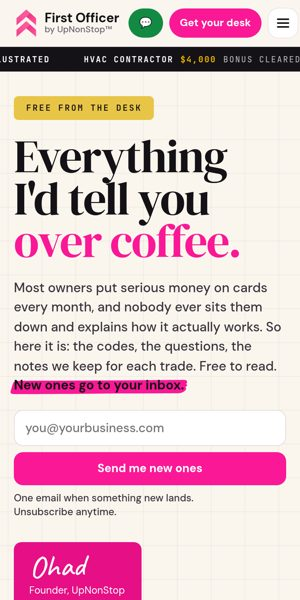
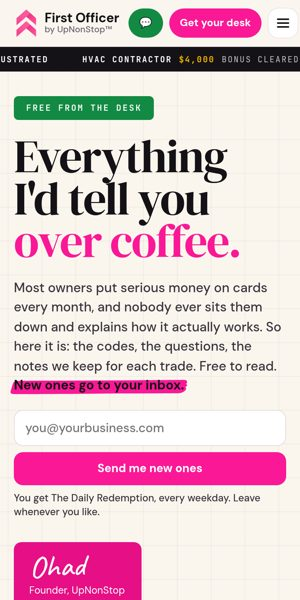
3h: green eyebrow, hero + band sign-ups wired to The Daily Redemption (Ghost members API, mockup guard), drop duplicate endnote capture

diff --git a/rebuild-v4/ffd-c-opt-3h.html b/rebuild-v4/ffd-c-opt-3h.html
@@ -824,7 +824,7 @@ html.dir-c.o3h .desk .endnote a{text-decoration-color:#fff}
 }
 
 /* eyebrow: its own colour, a plain tag, no stub and no mark */
-html.dir-c.o3h .desk .eyebrow{background:#E8C547!important;color:#141216!important;-webkit-mask:none;mask:none;border:0;border-radius:6px;padding:10px 16px;box-shadow:none}
+html.dir-c.o3h .desk .eyebrow{background:#138A43!important;color:#fff!important;-webkit-mask:none;mask:none;border:0;border-radius:6px;padding:10px 16px;box-shadow:none}
 html.dir-c.o3h .desk .eyebrow::before{display:none}
 /* signature: Ohad and the role on a plain pink tag, no stub */
 html.dir-c.o3h .desk .sig{background:#E60F86!important;-webkit-mask:none!important;mask:none!important;padding:12px 22px 12px 20px;border-radius:10px;box-shadow:none}
@@ -841,17 +841,26 @@ html.dir-c.o3h .desk .cap input:focus{outline:2px solid #FA1896;outline-offset:1
 html.dir-c.o3h .desk .cap button{flex:0 0 auto;font:700 15px/1 'DM Sans',system-ui,sans-serif;color:#fff;background:#FA1896;border:0;border-radius:12px;padding:0 18px;cursor:pointer;white-space:nowrap}
 html.dir-c.o3h .desk .cap button:hover{background:#B30A68}
 html.dir-c.o3h .desk .cap-m{margin:8px 0 0;font-size:13px;line-height:1.4;color:#3A343D}
-html.dir-c.o3h .desk .cap-ok{display:none;margin:8px 0 0;font-size:13px;font-weight:600;color:#B30A68}
-html.dir-c.o3h .desk .cap.sent .cap-ok{display:block}html.dir-c.o3h .desk .cap.sent .cap-m{display:none}
-html.dir-c.o3h .desk .endnote .en-main{min-width:0}
-html.dir-c.o3h .desk .endnote .en-cap{padding:0 48px 40px}
-html.dir-c.o3h .desk .endnote .en-cap p{padding:0;font-size:17px;line-height:1.4}
-html.dir-c.o3h .desk .endnote .cap-ask{font-weight:600}
-html.dir-c.o3h .desk .endnote .cap{margin:12px 0 0}html.dir-c.o3h .desk .endnote .en-cap .cap-m{margin-top:8px}
-html.dir-c.o3h .desk .endnote .cap input{border-color:#fff}
-html.dir-c.o3h .desk .endnote .cap button{background:#141216}html.dir-c.o3h .desk .endnote .cap button:hover{background:#3A343D}
-html.dir-c.o3h .desk .endnote .en-cap .cap-m,html.dir-c.o3h .desk .endnote .en-cap .cap-ok{color:#fff;font-size:13px}
-@media(max-width:860px){html.dir-c.o3h .desk .endnote .en-cap{padding:0 22px 28px}}
+html.dir-c.o3h .desk .cap-msg{margin:8px 0 0;font-size:13px;font-weight:600;color:#B30A68}html.dir-c.o3h .desk .cap-msg:empty{display:none}
+html.dir-c.o3h .desk .cap.sent .cap-m{display:none}
+html.dir-c.o3h #band{background:var(--bg,#FAF6EE);padding-top:24px;padding-bottom:64px}
+html.dir-c.o3h #band .dr{display:grid;grid-template-columns:220px minmax(0,1fr);max-width:1120px;margin:0 auto;border-radius:14px;overflow:hidden;background:rgba(250,24,150,.07);box-shadow:inset 0 0 0 1.5px rgba(250,24,150,.22)}
+html.dir-c.o3h #band .dr-stub{background:#E60F86;color:#fff;padding:28px 22px;display:flex;flex-direction:column;justify-content:center;gap:10px;border-right:2px dashed rgba(255,255,255,.6)}
+html.dir-c.o3h #band .dr-k{font:700 22px/1.1 'DM Sans',system-ui,sans-serif;letter-spacing:-.01em}
+html.dir-c.o3h #band .dr-f{font:600 11px/1 'JetBrains Mono',monospace;letter-spacing:.18em;text-transform:uppercase;opacity:.9}
+html.dir-c.o3h #band .dr-main{padding:30px 36px 32px}
+html.dir-c.o3h #band .dr-h{font:800 26px/1.15 'DM Sans',system-ui,sans-serif;letter-spacing:-.02em;color:#141216;margin:0}
+html.dir-c.o3h #band .dr-s{margin:8px 0 0;font-size:15px;line-height:1.55;color:#3A343D;max-width:620px}
+html.dir-c.o3h #band .cap{margin:16px 0 0;max-width:520px}
+html.dir-c.o3h #band .cap-l{position:absolute;width:1px;height:1px;overflow:hidden;clip:rect(0 0 0 0);white-space:nowrap}
+html.dir-c.o3h #band .cap-row{display:flex;gap:8px}
+html.dir-c.o3h #band .cap input{flex:1 1 auto;min-width:0;font:500 16px/1.2 'DM Sans',system-ui,sans-serif;color:#141216;background:#fff;border:1.5px solid rgba(250,24,150,.35);border-radius:12px;padding:13px 14px}
+html.dir-c.o3h #band .cap input:focus{outline:2px solid #FA1896;outline-offset:1px}
+html.dir-c.o3h #band .cap button{flex:0 0 auto;font:700 15px/1 'DM Sans',system-ui,sans-serif;color:#fff;background:#FA1896;border:0;border-radius:12px;padding:0 20px;cursor:pointer;white-space:nowrap}
+html.dir-c.o3h #band .cap button:hover{background:#B30A68}
+html.dir-c.o3h #band .cap-msg{margin:8px 0 0;font-size:13px;font-weight:600;color:#B30A68}html.dir-c.o3h #band .cap-msg:empty{display:none}
+@media(max-width:760px){html.dir-c.o3h #band .dr{grid-template-columns:1fr}html.dir-c.o3h #band .dr-stub{border-right:0;border-bottom:2px dashed rgba(255,255,255,.6);padding:18px 20px;flex-direction:row;align-items:baseline;justify-content:space-between;flex-wrap:wrap}html.dir-c.o3h #band .dr-main{padding:22px 20px 24px}html.dir-c.o3h #band .dr-h{font-size:22px}}
+@media(max-width:420px){html.dir-c.o3h #band .cap-row{flex-direction:column}html.dir-c.o3h #band .cap button{padding:14px 18px}}
 @media(max-width:420px){html.dir-c.o3h .desk .cap-row{flex-direction:column}html.dir-c.o3h .desk .cap button{padding:14px 18px}}
 </style></head><body>
 <!-- MOCKUP · First Officer rebuild v4 (prior mockup design language) · static HTML, not production -->
@@ -867,7 +876,7 @@ html.dir-c.o3h .desk .endnote .en-cap .cap-m,html.dir-c.o3h .desk .endnote .en-c
 <div class="dh-l">
 <div class="eyebrow">Free From the Desk</div>
 <h1>Everything I'd tell you <em>over coffee.</em></h1>
-<p class="lede">Most owners put serious money on cards every month, and nobody ever sits them down and explains how it actually works. So here it is: the codes, the questions, the notes we keep for each trade. Free to read. <span class="hl">New ones go to your inbox.</span></p><form class="cap cap-hero" action="#capture-placeholder" method="post" data-placeholder="mockup: not connected to any list" onsubmit="this.classList.add('sent');return false"><label class="cap-l" for="caph-e">Email for new notes</label><div class="cap-row"><input id="caph-e" type="email" name="email" required autocomplete="email" placeholder="you@yourbusiness.com"><button type="submit">Send me new ones</button></div><p class="cap-m">One email when something new lands. Unsubscribe anytime.</p><p class="cap-ok" role="status">Thanks. Mockup only, nothing was sent.</p></form>
+<p class="lede">Most owners put serious money on cards every month, and nobody ever sits them down and explains how it actually works. So here it is: the codes, the questions, the notes we keep for each trade. Free to read. <span class="hl">New ones go to your inbox.</span></p><form class="cap cap-hero" data-fo-signup data-endpoint="https://www.upnonstop.com/members/api/send-magic-link/" data-labels="First Officer site" novalidate><label class="cap-l" for="caph-e">Your email address</label><div class="cap-row"><input id="caph-e" type="email" name="email" required autocomplete="email" placeholder="you@yourbusiness.com"><button type="submit">Send me new ones</button></div><p class="cap-m">You get The Daily Redemption, every weekday. Leave whenever you like.</p><p class="cap-msg" role="status" aria-live="polite"></p></form>
 <div class="sig"><div><span class="sign">Ohad</span><span class="role">Founder, UpNonStop</span></div></div>
 </div>
 <div class="vault"><a class="feat" href="calculator.html">
@@ -1781,14 +1790,12 @@ html.dir-c.o3h .desk .endnote .en-cap .cap-m,html.dir-c.o3h .desk .endnote .en-c
 </article>
 <button type="button" class="more-tile" data-ty="decoder" data-noun="decoder cards" hidden></button><p class="empty" hidden>Nothing here yet. Try another word, or <a href="https://wa.me/16199404040?text=First%20Officer%20Found%20Money%20Call" rel="noopener">text the desk your question</a>.</p></section>
 <section class="endnote bleed">
-<div class="en-main"><p>That's the desk. Take whatever helps. If you'd rather we just do it for you, that's what <a href="book.html">The Found Money Call</a> is: 20 minutes, and if the math says no, I'll tell you no.</p><div class="en-cap"><p class="cap-ask">Want the new ones when they are added? Leave your email.</p><form class="cap cap-foot" action="#capture-placeholder" method="post" data-placeholder="mockup: not connected to any list" onsubmit="this.classList.add('sent');return false"><label class="cap-l" for="capf-e">Email for new notes</label><div class="cap-row"><input id="capf-e" type="email" name="email" required autocomplete="email" placeholder="you@yourbusiness.com"><button type="submit">Send me new ones</button></div><p class="cap-m">One email when something new lands. Unsubscribe anytime.</p><p class="cap-ok" role="status">Thanks. Mockup only, nothing was sent.</p></form></div></div>
+<p>That's the desk. Take whatever helps. If you'd rather we just do it for you, that's what <a href="book.html">The Found Money Call</a> is: 20 minutes, and if the math says no, I'll tell you no.</p>
 <span class="sign">Ohad</span>
 </section>
 <section class="disc"><p><b>Plainly:</b> First Officer is an educational tool, not a licensed financial advisor. Nothing here is financial, tax, legal, credit or HR advice. We're not a lender, a credit repair or counseling service, a tax preparer or a law firm, and nothing on this page is an offer of credit or a recommendation to apply for any card or loan. Every number is sourced or labeled Example, and your results will be different. Rules change, so check with your issuer, program, agency or professional before you act. Examples are illustrations, not predictions. Merchant codes are set by each merchant's processor. Card, bureau, program and company names are their owners' trademarks, and naming them isn't an endorsement. This page doesn't see your credit file, accounts or statements. <span class="hl">No affiliate links</span>, and <span class="hl">no money from any bank or program</span>. Nobody pays us to send you anywhere. <a href="terms-of-service.html"><em>Terms &amp; Conditions</em></a> &middot; <a href="privacy-policy.html">Privacy Policy</a></p></section></div></main>
 <section class="sec" id="band"><div class="phx" data-iv="8000" data-ph="img/ph/d-bali.webp,img/ph/bg-05.webp,img/ph/d-maldives.webp" aria-hidden="true"></div><div class="wrap">
-<div class="card news" id="focap" style="margin-top:12px" data-rv><span class="lab gold">The Daily Redemption</span><h3 class="h3" style="margin-top:8px">One real redemption, every weekday.</h3>
-<p style="margin-top:6px">The newsletter behind the desk: what the desk found on request, what it cost in points, and what it would have cost in cash. Free, and you can leave whenever you like.</p>
-<form onsubmit="return false"><input type="email" placeholder="you@yourbusiness.com" aria-label="Your email address"><button class="btn" type="submit">Get the newsletter</button></form></div></div></section>
+<div class="dr" id="focap" data-rv><div class="dr-stub"><span class="dr-k">The Daily Redemption</span><span class="dr-f">Every weekday</span></div><div class="dr-main"><h3 class="dr-h">New freebies and notes from the desk, in your inbox.</h3><p class="dr-s">The Daily Redemption is the newsletter behind the desk: one real redemption every weekday, and the new freebies as they land. Free, and you can leave whenever you like.</p><form class="cap cap-dr" data-fo-signup data-endpoint="https://www.upnonstop.com/members/api/send-magic-link/" data-labels="First Officer site" novalidate><label class="cap-l" for="capd-e">Your email address</label><div class="cap-row"><input id="capd-e" type="email" name="email" required autocomplete="email" placeholder="you@yourbusiness.com"><button type="submit">Get the newsletter</button></div><p class="cap-msg" role="status" aria-live="polite"></p></form></div></div></div></section>
 <footer class="foot"><div class="wrap">
 <p class="dn">Client stories are shared with permission. Names, figures and examples on this page may be illustrative or altered to protect privacy.</p>
 <div class="fdir">
@@ -2026,4 +2033,17 @@ function fill(){[].forEach.call(document.querySelectorAll('.desk .grid .shelf'),
  if(lead&&n<3)r3='';sh.setAttribute('data-r3',r3);sh.setAttribute('data-r2',r2);});}
 var g=document.getElementById('desk-grid');if(!g)return;fill();
 new MutationObserver(function(){clearTimeout(fill.t);fill.t=setTimeout(fill,30);}).observe(g,{subtree:true,attributes:true,attributeFilter:['hidden'],childList:true});
-})();</script><script src="assets/site.js"></script></body></html>
+})();</script><script src="assets/site.js"></script><script id="fo-signup">(function(){var LIVE=false;
+document.querySelectorAll('form[data-fo-signup]').forEach(function(f){
+ var i=f.querySelector('input[type=email]'),b=f.querySelector('button'),m=f.querySelector('.cap-msg');
+ f.addEventListener('submit',function(e){e.preventDefault();var v=(i.value||'').trim();
+  if(!v||v.indexOf('@')<1){m.textContent='Please enter a valid email address.';i.focus();return;}
+  if(!LIVE){f.classList.add('sent');m.textContent='Mockup only, nothing was sent. On the live site this adds you to The Daily Redemption.';return;}
+  b.disabled=true;m.textContent='Sending...';
+  fetch(f.dataset.endpoint,{method:'POST',headers:{'Content-Type':'application/json'},
+   body:JSON.stringify({email:v,emailType:'signup',labels:f.dataset.labels.split(','),name:''})})
+  .then(function(r){if(r.ok){f.classList.add('sent');f.querySelector('.cap-row').style.display='none';m.textContent='Check your inbox for the confirmation link.';
+    if(typeof gtag==='function')gtag('event','newsletter_signup',{page_path:location.pathname});}
+   else{b.disabled=false;m.textContent='That did not go through. Try again in a moment.';}})
+  .catch(function(){b.disabled=false;m.textContent='That did not go through. Try again in a moment.';});});});})();</script>
+</body></html>

diff --git a/rebuild-v4/ffd-c-options.html b/rebuild-v4/ffd-c-options.html
@@ -25,7 +25,7 @@ p.l{font-size:17px;color:#3a343d;max-width:720px}
 <h1>Same desk, no black, <em>five ways.</em></h1>
 <p class="l">Same 490 items, search, filters, reading view, rail and shelves, and the same gold Golden Nugget card. Only the surfaces change.</p>
 <div class="g"><article class="o"><a class="sh" href="ffd-c-opt-3h.html"><img class="dt" src="img/ffd-opts/opt-3h-1440.jpg" alt="Brand palette on desktop" loading="lazy"><img class="ph" src="img/ffd-opts/opt-3h-390.jpg" alt="Brand palette on a phone" loading="lazy"></a>
-<div class="tx"><span class="k">Brand palette</span><b>Cream desk, First Officer pink tickets</b><p>Matured to the brand: the cream canvas, ink type and pink second line of the approved pages, every solid block in First Officer pink with a deeper pink tear-off stub, a flat brand-gold Golden Nugget Pack, a gold eyebrow tag, an email capture, and the mark only in the logo. No purple.</p><a class="go" href="ffd-c-opt-3h.html">Open brand palette <span aria-hidden="true">&rarr;</span></a></div></article><article class="o"><a class="sh" href="ffd-c-opt-3g.html"><img class="dt" src="img/ffd-opts/opt-3g-1440.jpg" alt="Palette A, refined on desktop" loading="lazy"><img class="ph" src="img/ffd-opts/opt-3g-390.jpg" alt="Palette A, refined on a phone" loading="lazy"></a>
+<div class="tx"><span class="k">Brand palette</span><b>Cream desk, First Officer pink tickets</b><p>Matured to the brand: the cream canvas, ink type and pink second line of the approved pages, every solid block in First Officer pink with a deeper pink tear-off stub, a flat brand-gold Golden Nugget Pack, a green eyebrow tag, Daily Redemption sign-ups, and the mark only in the logo. No purple.</p><a class="go" href="ffd-c-opt-3h.html">Open brand palette <span aria-hidden="true">&rarr;</span></a></div></article><article class="o"><a class="sh" href="ffd-c-opt-3g.html"><img class="dt" src="img/ffd-opts/opt-3g-1440.jpg" alt="Palette A, refined on desktop" loading="lazy"><img class="ph" src="img/ffd-opts/opt-3g-390.jpg" alt="Palette A, refined on a phone" loading="lazy"></a>
 <div class="tx"><span class="k">Palette A, refined</span><b>One deep partner, refined</b><p>Palette A taken further: a lifted aubergine that never reads as black, the full First Officer mark wherever a chevron appears, a cheat sheet that leads with why an owner cares, and shelves that close up with no holes.</p><a class="go" href="ffd-c-opt-3g.html">Open palette A, refined <span aria-hidden="true">&rarr;</span></a></div></article><article class="o"><a class="sh" href="ffd-c-opt-3d.html"><img class="dt" src="img/ffd-opts/opt-3d-1440.jpg" alt="Palette A on desktop" loading="lazy"><img class="ph" src="img/ffd-opts/opt-3d-390.jpg" alt="Palette A on a phone" loading="lazy"></a>
 <div class="tx"><span class="k">Palette A</span><b>One deep partner</b><p>Pink hero plus one deep aubergine for every solid block, tonal stubs, gold as the single accent; pillar colours shrink to the kind labels and the FO-number underline.</p><a class="go" href="ffd-c-opt-3d.html">Open palette A <span aria-hidden="true">&rarr;</span></a></div></article><article class="o"><a class="sh" href="ffd-c-opt-3e.html"><img class="dt" src="img/ffd-opts/opt-3e-1440.jpg" alt="Palette B on desktop" loading="lazy"><img class="ph" src="img/ffd-opts/opt-3e-390.jpg" alt="Palette B on a phone" loading="lazy"></a>
 <div class="tx"><span class="k">Palette B</span><b>Section-coded</b><p>Each section owns one pillar colour in tonal shades only: the hero and stats in deep violet, each desk lane in its own pillar from rail to lead, never two pillars side by side.</p><a class="go" href="ffd-c-opt-3e.html">Open palette B <span aria-hidden="true">&rarr;</span></a></div></article><article class="o"><a class="sh" href="ffd-c-opt-3f.html"><img class="dt" src="img/ffd-opts/opt-3f-1440.jpg" alt="Palette C on desktop" loading="lazy"><img class="ph" src="img/ffd-opts/opt-3f-390.jpg" alt="Palette C on a phone" loading="lazy"></a>

diff --git a/rebuild-v4/_build/ffd_c_opts.py b/rebuild-v4/_build/ffd_c_opts.py
@@ -800,7 +800,7 @@ open(_p, 'w', encoding='utf-8').write(_s.replace(CHEV, MARK))
 BP, BPS, BPK = '#E60F86', '#B30A68', '#FA1896'          # --pink2 block, --pinkdeep stub, --pink accent
 BCR, BCR2, BTR, BPL = '#FAF6EE', '#FBF4E6', '#F1EADB', '#F1D6E5'   # --bg, --cream2, --track, --pinkLine
 BG, BG2, BINK, BINK2 = '#E8C547', '#F5B700', '#141216', '#3A343D'  # --gold, --gold2, --ink, --ink2
-EYEBROW = (BG, BINK)  # brand gold tag, ink text: ink sat too heavy under the ink ticker on phones
+EYEBROW = ('#138A43', '#fff')  # site green of the header 'Text Your First Officer' button, white text (Ohad: not gold, black or pink)
 GP = 'rgba(255,255,255,.7)'      # perforation on gold
 # the site's existing hand-painted highlighter brush (the 'No affiliate links' trust line), reused verbatim
 import re as _re3h
@@ -906,17 +906,26 @@ O3H2 = f'''
 § .cap button{{flex:0 0 auto;font:700 15px/1 'DM Sans',system-ui,sans-serif;color:#fff;background:{BPK};border:0;border-radius:12px;padding:0 18px;cursor:pointer;white-space:nowrap}}
 § .cap button:hover{{background:{BPS}}}
 § .cap-m{{margin:8px 0 0;font-size:13px;line-height:1.4;color:{BINK2}}}
-§ .cap-ok{{display:none;margin:8px 0 0;font-size:13px;font-weight:600;color:{BPS}}}
-§ .cap.sent .cap-ok{{display:block}}§ .cap.sent .cap-m{{display:none}}
-§ .endnote .en-main{{min-width:0}}
-§ .endnote .en-cap{{padding:0 48px 40px}}
-§ .endnote .en-cap p{{padding:0;font-size:17px;line-height:1.4}}
-§ .endnote .cap-ask{{font-weight:600}}
-§ .endnote .cap{{margin:12px 0 0}}§ .endnote .en-cap .cap-m{{margin-top:8px}}
-§ .endnote .cap input{{border-color:#fff}}
-§ .endnote .cap button{{background:{BINK}}}§ .endnote .cap button:hover{{background:{BINK2}}}
-§ .endnote .en-cap .cap-m,§ .endnote .en-cap .cap-ok{{color:#fff;font-size:13px}}
-@media(max-width:860px){{§ .endnote .en-cap{{padding:0 22px 28px}}}}
+§ .cap-msg{{margin:8px 0 0;font-size:13px;font-weight:600;color:{BPS}}}§ .cap-msg:empty{{display:none}}
+§ .cap.sent .cap-m{{display:none}}
+html.dir-c.o3h #band{{background:var(--bg,#FAF6EE);padding-top:24px;padding-bottom:64px}}
+html.dir-c.o3h #band .dr{{display:grid;grid-template-columns:220px minmax(0,1fr);max-width:1120px;margin:0 auto;border-radius:14px;overflow:hidden;background:rgba(250,24,150,.07);box-shadow:inset 0 0 0 1.5px rgba(250,24,150,.22)}}
+html.dir-c.o3h #band .dr-stub{{background:{BP};color:#fff;padding:28px 22px;display:flex;flex-direction:column;justify-content:center;gap:10px;border-right:2px dashed rgba(255,255,255,.6)}}
+html.dir-c.o3h #band .dr-k{{font:700 22px/1.1 'DM Sans',system-ui,sans-serif;letter-spacing:-.01em}}
+html.dir-c.o3h #band .dr-f{{font:600 11px/1 'JetBrains Mono',monospace;letter-spacing:.18em;text-transform:uppercase;opacity:.9}}
+html.dir-c.o3h #band .dr-main{{padding:30px 36px 32px}}
+html.dir-c.o3h #band .dr-h{{font:800 26px/1.15 'DM Sans',system-ui,sans-serif;letter-spacing:-.02em;color:{BINK};margin:0}}
+html.dir-c.o3h #band .dr-s{{margin:8px 0 0;font-size:15px;line-height:1.55;color:{BINK2};max-width:620px}}
+html.dir-c.o3h #band .cap{{margin:16px 0 0;max-width:520px}}
+html.dir-c.o3h #band .cap-l{{position:absolute;width:1px;height:1px;overflow:hidden;clip:rect(0 0 0 0);white-space:nowrap}}
+html.dir-c.o3h #band .cap-row{{display:flex;gap:8px}}
+html.dir-c.o3h #band .cap input{{flex:1 1 auto;min-width:0;font:500 16px/1.2 'DM Sans',system-ui,sans-serif;color:{BINK};background:#fff;border:1.5px solid rgba(250,24,150,.35);border-radius:12px;padding:13px 14px}}
+html.dir-c.o3h #band .cap input:focus{{outline:2px solid {BPK};outline-offset:1px}}
+html.dir-c.o3h #band .cap button{{flex:0 0 auto;font:700 15px/1 'DM Sans',system-ui,sans-serif;color:#fff;background:{BPK};border:0;border-radius:12px;padding:0 20px;cursor:pointer;white-space:nowrap}}
+html.dir-c.o3h #band .cap button:hover{{background:{BPS}}}
+html.dir-c.o3h #band .cap-msg{{margin:8px 0 0;font-size:13px;font-weight:600;color:{BPS}}}html.dir-c.o3h #band .cap-msg:empty{{display:none}}
+@media(max-width:760px){{html.dir-c.o3h #band .dr{{grid-template-columns:1fr}}html.dir-c.o3h #band .dr-stub{{border-right:0;border-bottom:2px dashed rgba(255,255,255,.6);padding:18px 20px;flex-direction:row;align-items:baseline;justify-content:space-between;flex-wrap:wrap}}html.dir-c.o3h #band .dr-main{{padding:22px 20px 24px}}html.dir-c.o3h #band .dr-h{{font-size:22px}}}}
+@media(max-width:420px){{html.dir-c.o3h #band .cap-row{{flex-direction:column}}html.dir-c.o3h #band .cap button{{padding:14px 18px}}}}
 @media(max-width:420px){{§ .cap-row{{flex-direction:column}}§ .cap button{{padding:14px 18px}}}}
 '''
 pal3h = pal_css(BP, BPS, [BP] * 4, BCR2, BTR, BTR, 'transparent', BP, BPS, grid=(BP, BPS))
@@ -940,7 +949,7 @@ _s = _dc.nochev(_dc.capture(_s))
 open(_p, 'w', encoding='utf-8').write(_s)
 
 # ---------------------------------------------------------------- gallery
-GAL = [('3h', 'Brand palette', 'Cream desk, First Officer pink tickets', 'Matured to the brand: the cream canvas, ink type and pink second line of the approved pages, every solid block in First Officer pink with a deeper pink tear-off stub, a flat brand-gold Golden Nugget Pack, a gold eyebrow tag, an email capture, and the mark only in the logo. No purple.'), ('3g', 'Palette A, refined', 'One deep partner, refined', 'Palette A taken further: a lifted aubergine that never reads as black, the full First Officer mark wherever a chevron appears, a cheat sheet that leads with why an owner cares, and shelves that close up with no holes.')] + [(n, k, name, pitch) for n, k, name, pitch, _ in PALS] + [('3c', 'Option 3, matured v2', 'Pillar blocks, matured v2', 'Solid pillar-colour blocks again, each cut as a tear-off ticket: notched perforation, a deeper stub with the flight-number tag and Grab it, white type on green, orange, violet and blue.'),
+GAL = [('3h', 'Brand palette', 'Cream desk, First Officer pink tickets', 'Matured to the brand: the cream canvas, ink type and pink second line of the approved pages, every solid block in First Officer pink with a deeper pink tear-off stub, a flat brand-gold Golden Nugget Pack, a green eyebrow tag, Daily Redemption sign-ups, and the mark only in the logo. No purple.'), ('3g', 'Palette A, refined', 'One deep partner, refined', 'Palette A taken further: a lifted aubergine that never reads as black, the full First Officer mark wherever a chevron appears, a cheat sheet that leads with why an owner cares, and shelves that close up with no holes.')] + [(n, k, name, pitch) for n, k, name, pitch, _ in PALS] + [('3c', 'Option 3, matured v2', 'Pillar blocks, matured v2', 'Solid pillar-colour blocks again, each cut as a tear-off ticket: notched perforation, a deeper stub with the flight-number tag and Grab it, white type on green, orange, violet and blue.'),
        ('3b', 'Option 3, matured', 'Pillar blocks, matured', 'The pillar colours move into tear-off stubs: notched boarding-pass cards with a dashed perforation, a flight-number tag and the Grab it action on a green, orange, violet or blue stub.')] + \
       [(n, f'Option {n}', name, pitch) for n, name, pitch, _ in OPTS]
 cards = ''.join(f'''<article class="o"><a class="sh" href="ffd-c-opt-{n}.html"><img class="dt" src="img/ffd-opts/opt-{n}-1440.jpg" alt="{k} on desktop" loading="lazy"><img class="ph" src="img/ffd-opts/opt-{n}-390.jpg" alt="{k} on a phone" loading="lazy"></a>

diff --git a/rebuild-v4/_build/desk_clean.py b/rebuild-v4/_build/desk_clean.py
@@ -116,11 +116,16 @@ def check(s):
     return s
 
 
-# ---------------------------------------------------------------- email capture (Ohad, Oct 26: "I want their emails")
-# The page used to promise "No email". It now asks for one, plainly, with a reason.
-# MOCKUP: the form posts nowhere. action="#capture-placeholder" must be swapped for the real
-# list endpoint before launch; onsubmit only shows a thank-you line in the page.
-CAPTURE_ACTION = '#capture-placeholder'
+# ---------------------------------------------------------------- email capture (Ohad, Oct 26: "I want their emails",
+# then "Put them on The Daily Redemption list and merge the forms")
+# Every sign-up on the page goes to The Daily Redemption, wired exactly like the live site-wide
+# form (index.html #focapjs): POST JSON to the Ghost members API on www.upnonstop.com,
+#   {"email": <email>, "emailType": "signup", "labels": ["First Officer site"], "name": ""}
+# Ghost then emails a confirmation (magic) link; the member is created on confirm.
+# MOCKUP GUARD: SIGNUP_LIVE is False in the preview, so nothing is posted. Set it to True to go live.
+SIGNUP_ENDPOINT = 'https://www.upnonstop.com/members/api/send-magic-link/'
+SIGNUP_LABELS = ['First Officer site']
+SIGNUP_LIVE = False
 TAGLINE = 'New ones go to your inbox.'
 TAGLINE_OPTIONS = [
     'Free to read. New ones go to your inbox.',                       # picked
@@ -129,41 +134,68 @@ TAGLINE_OPTIONS = [
     'Free. New notes land in your inbox, one email at a time.',
     'Free to read. Your email gets you the new ones as they land.',
 ]
-MICRO = 'One email when something new lands. Unsubscribe anytime.'
+# matches how the site describes the list: "One real redemption, every weekday."
+MICRO = 'You get The Daily Redemption, every weekday. Leave whenever you like.'
 
 
-def capture_form(cls, btn='Send me new ones', idp='cap'):
-    return (f'<form class="cap {cls}" action="{CAPTURE_ACTION}" method="post" data-placeholder="mockup: not connected to any list" '
-            f'onsubmit="this.classList.add(\'sent\');return false">'
-            f'<label class="cap-l" for="{idp}-e">Email for new notes</label>'
+def signup_form(cls, btn, idp, micro=MICRO):
+    return (f'<form class="cap {cls}" data-fo-signup data-endpoint="{SIGNUP_ENDPOINT}" data-labels="{",".join(SIGNUP_LABELS)}" novalidate>'
+            f'<label class="cap-l" for="{idp}-e">Your email address</label>'
             f'<div class="cap-row"><input id="{idp}-e" type="email" name="email" required autocomplete="email" placeholder="you@yourbusiness.com">'
             f'<button type="submit">{btn}</button></div>'
-            f'<p class="cap-m">{MICRO}</p><p class="cap-ok" role="status">Thanks. Mockup only, nothing was sent.</p></form>')
+            + (f'<p class="cap-m">{micro}</p>' if micro else '')
+            + '<p class="cap-msg" role="status" aria-live="polite"></p></form>')
 
+
+# one handler for every [data-fo-signup] form; same request body as the live #focapjs
+SIGNUP_JS = ('<script id="fo-signup">(function(){var LIVE=' + ('true' if SIGNUP_LIVE else 'false') + ";\n"
+ "document.querySelectorAll('form[data-fo-signup]').forEach(function(f){\n"
+ " var i=f.querySelector('input[type=email]'),b=f.querySelector('button'),m=f.querySelector('.cap-msg');\n"
+ " f.addEventListener('submit',function(e){e.preventDefault();var v=(i.value||'').trim();\n"
+ "  if(!v||v.indexOf('@')<1){m.textContent='Please enter a valid email address.';i.focus();return;}\n"
+ "  if(!LIVE){f.classList.add('sent');m.textContent='Mockup only, nothing was sent. On the live site this adds you to The Daily Redemption.';return;}\n"
+ "  b.disabled=true;m.textContent='Sending...';\n"
+ "  fetch(f.dataset.endpoint,{method:'POST',headers:{'Content-Type':'application/json'},\n"
+ "   body:JSON.stringify({email:v,emailType:'signup',labels:f.dataset.labels.split(','),name:''})})\n"
+ "  .then(function(r){if(r.ok){f.classList.add('sent');f.querySelector('.cap-row').style.display='none';m.textContent='Check your inbox for the confirmation link.';\n"
+ "    if(typeof gtag==='function')gtag('event','newsletter_signup',{page_path:location.pathname});}\n"
+ "   else{b.disabled=false;m.textContent='That did not go through. Try again in a moment.';}})\n"
+ "  .catch(function(){b.disabled=false;m.textContent='That did not go through. Try again in a moment.';});});});})();</script>")
 
 EMAIL_REWRITES = [
     # lede tagline
     ('Free. <span class="hl">No email. No catch.</span></p>',
-     f'Free to read. <span class="hl">{TAGLINE}</span></p>' + capture_form('cap-hero', idp='caph')),
+     f'Free to read. <span class="hl">{TAGLINE}</span></p>' + signup_form('cap-hero', 'Send me new ones', 'caph')),
     # meta description
     ('for business owners, free. No email. No catch.', 'for business owners, free to read. Leave your email for the new ones.'),
     # stats row: the '0 emails asked for' cell becomes the real card count shown on the shelves
     ('<span><b>0</b>emails asked for</span>', '<span><b>109</b>cards on the desk</span>'),
 ]
 
+# the one bottom sign-up: the site-wide Daily Redemption band, re-dressed as a desk ticket
+DR_OLD = re.compile(r'<div class="card news" id="focap"[^>]*>.*?</form></div>', re.S)
+DR_NEW = ('<div class="dr" id="focap" data-rv><div class="dr-stub"><span class="dr-k">The Daily Redemption</span>'
+          '<span class="dr-f">Every weekday</span></div><div class="dr-main">'
+          '<h3 class="dr-h">New freebies and notes from the desk, in your inbox.</h3>'
+          '<p class="dr-s">The Daily Redemption is the newsletter behind the desk: one real redemption every weekday, '
+          'and the new freebies as they land. Free, and you can leave whenever you like.</p>'
+          + signup_form('cap-dr', 'Get the newsletter', 'capd', micro='') + '</div></div>')
+
 
 def capture(s):
     for a, b in EMAIL_REWRITES:
         assert s.count(a) == 1, f'capture rewrite target missing: {a[:60]}'
         s = s.replace(a, b)
-    # end of the desk: the same capture inside the closing note, under its paragraph
-    m = re.search(r'<section class="endnote bleed">\n(<p>.*?</p>)\n<span class="sign">Ohad</span>\n</section>', s, re.S)
-    assert m, 'endnote not found'
-    s = s[:m.start()] + ('<section class="endnote bleed">\n<div class="en-main">' + m.group(1)
-                         + '<div class="en-cap"><p class="cap-ask">Want the new ones when they are added? Leave your email.</p>'
-                         + capture_form('cap-foot', idp='capf') + '</div></div>\n<span class="sign">Ohad</span>\n</section>') + s[m.end():]
+    assert len(DR_OLD.findall(s)) == 1, 'Daily Redemption band not found'
+    s = DR_OLD.sub(lambda m: DR_NEW, s)
+    assert s.count('</body>') == 1
+    s = s.replace('</body>', SIGNUP_JS + '\n</body>')
     bad = [m.group(0) for m in re.finditer(r'(?i)no e-?mails?\b|no sign-?ups?|no catch|emails asked for', s)]
     assert not bad, f'email copy contradicts the capture: {bad}'
+    forms = re.findall(r'<form[^>]*>.*?</form>', s, re.S)
+    sign = [f for f in forms if 'data-fo-signup' in f]
+    assert len(sign) == 2, 'expected exactly two Daily Redemption sign-ups (hero + band)'
+    assert not [f for f in forms if 'type="email"' in f and 'data-fo-signup' not in f], 'unwired email form left'
     return s
 
 
